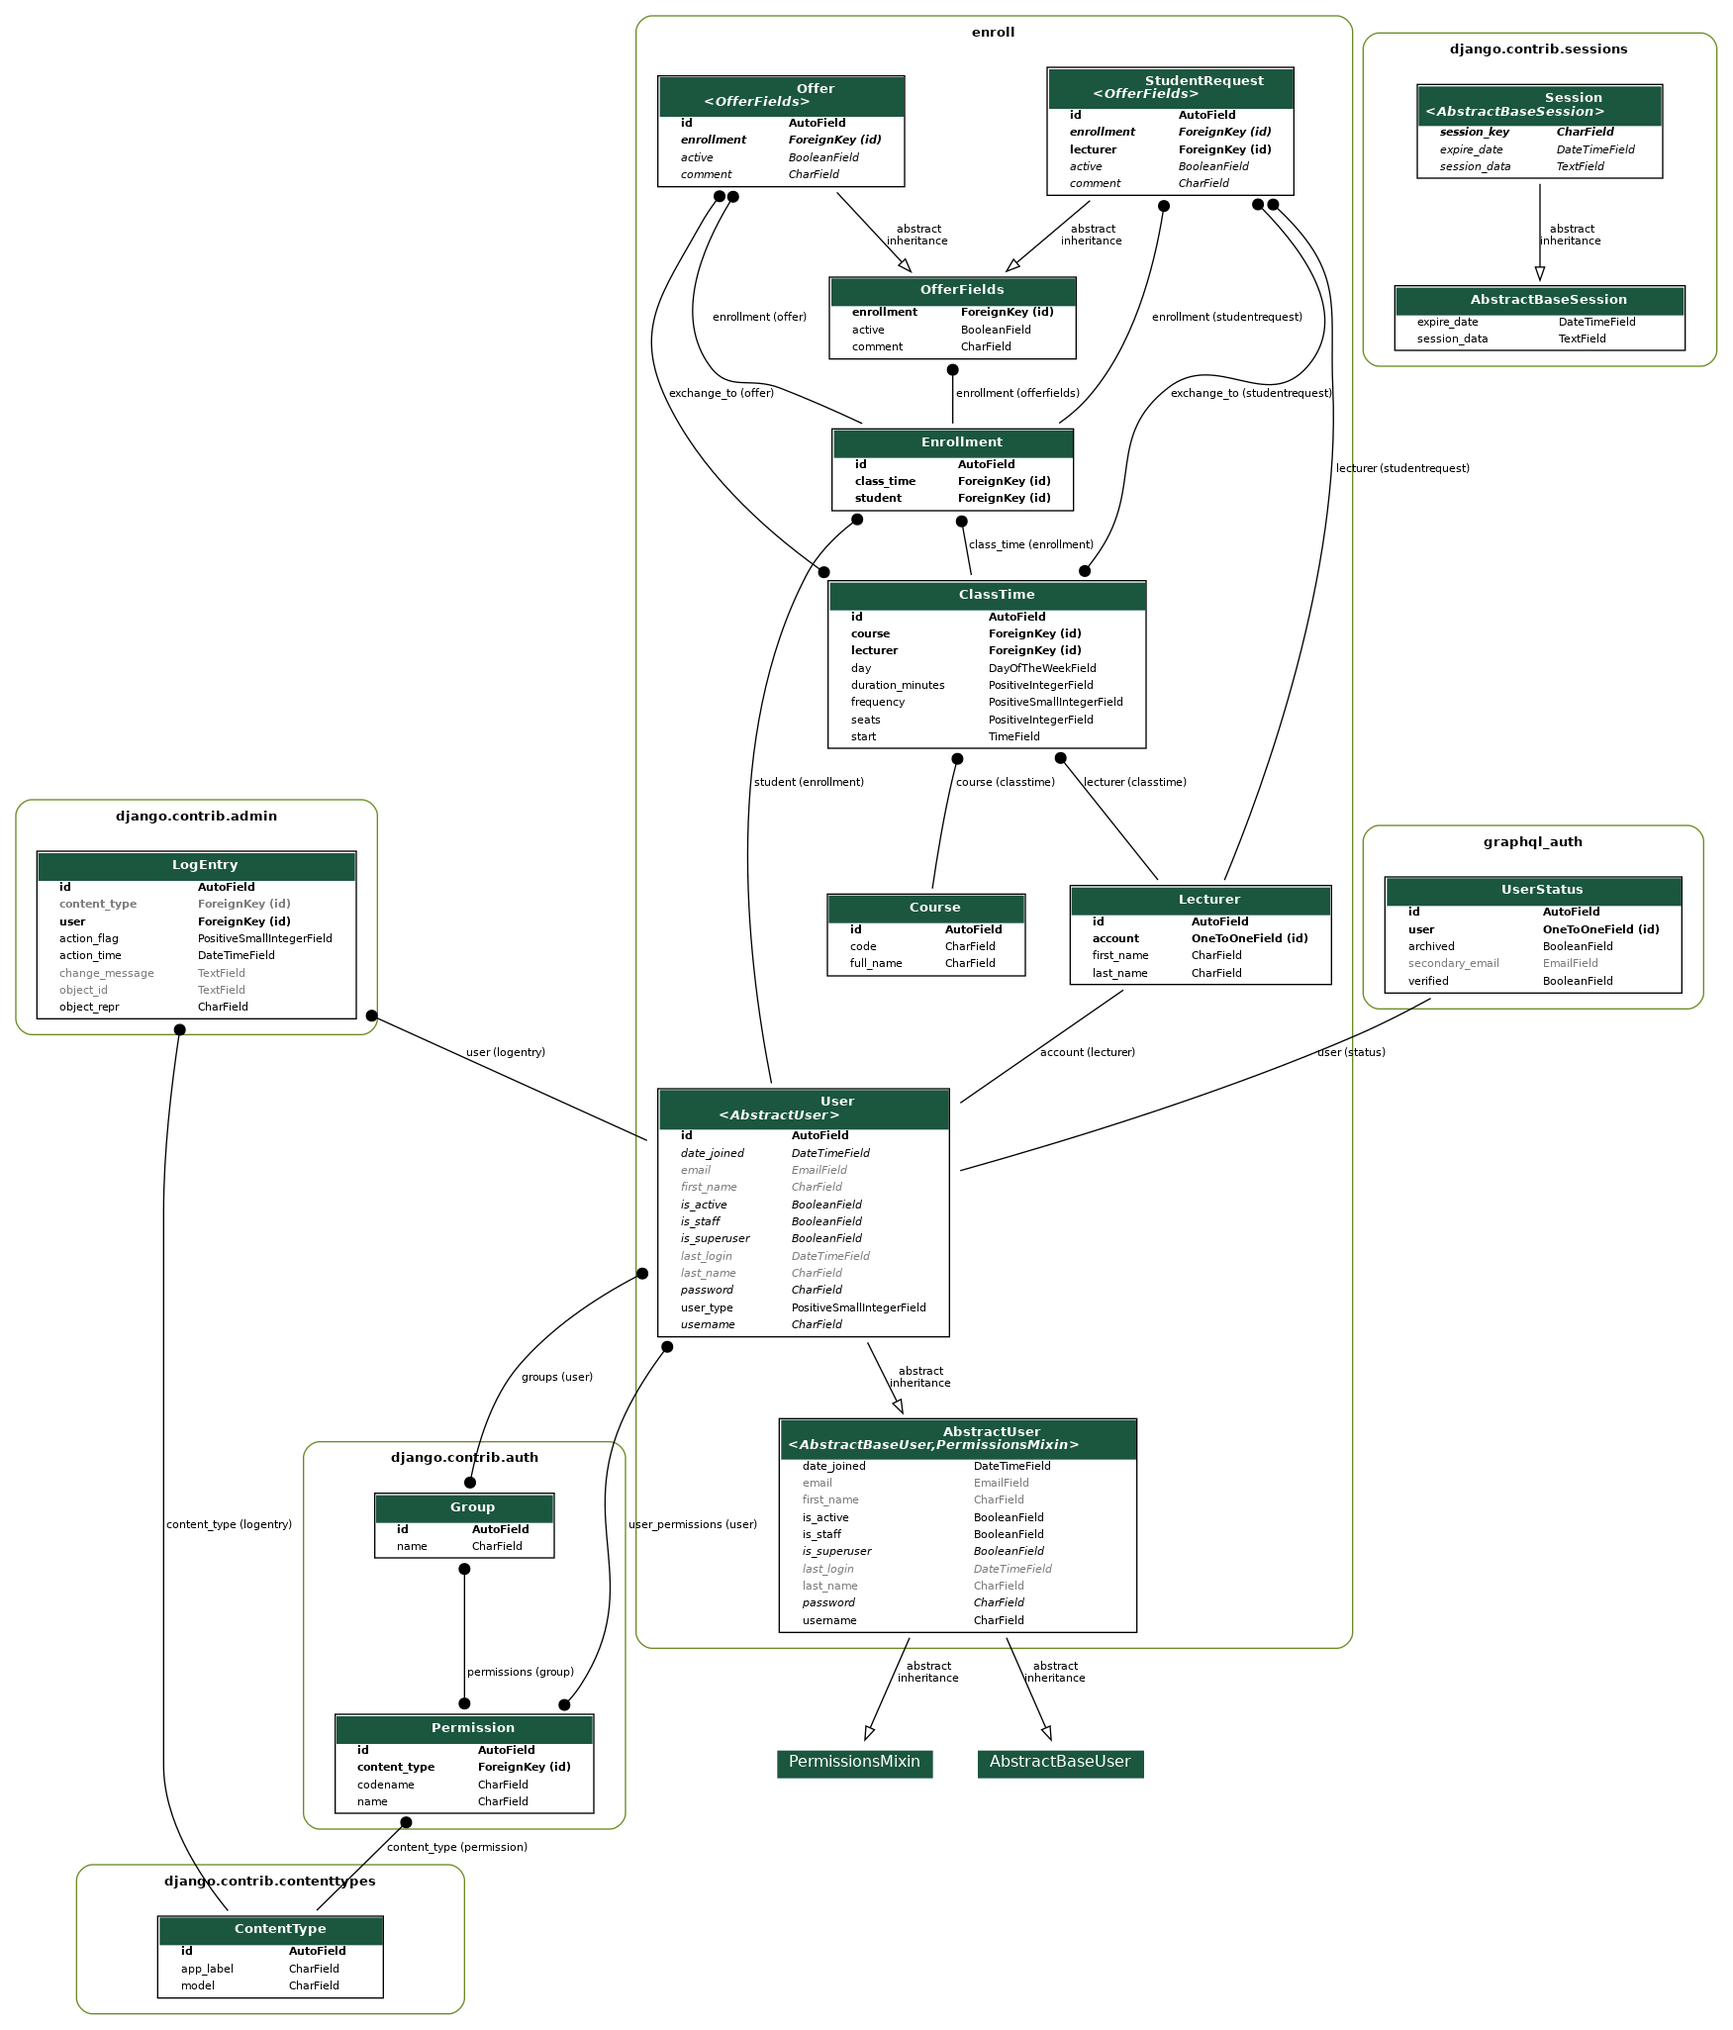
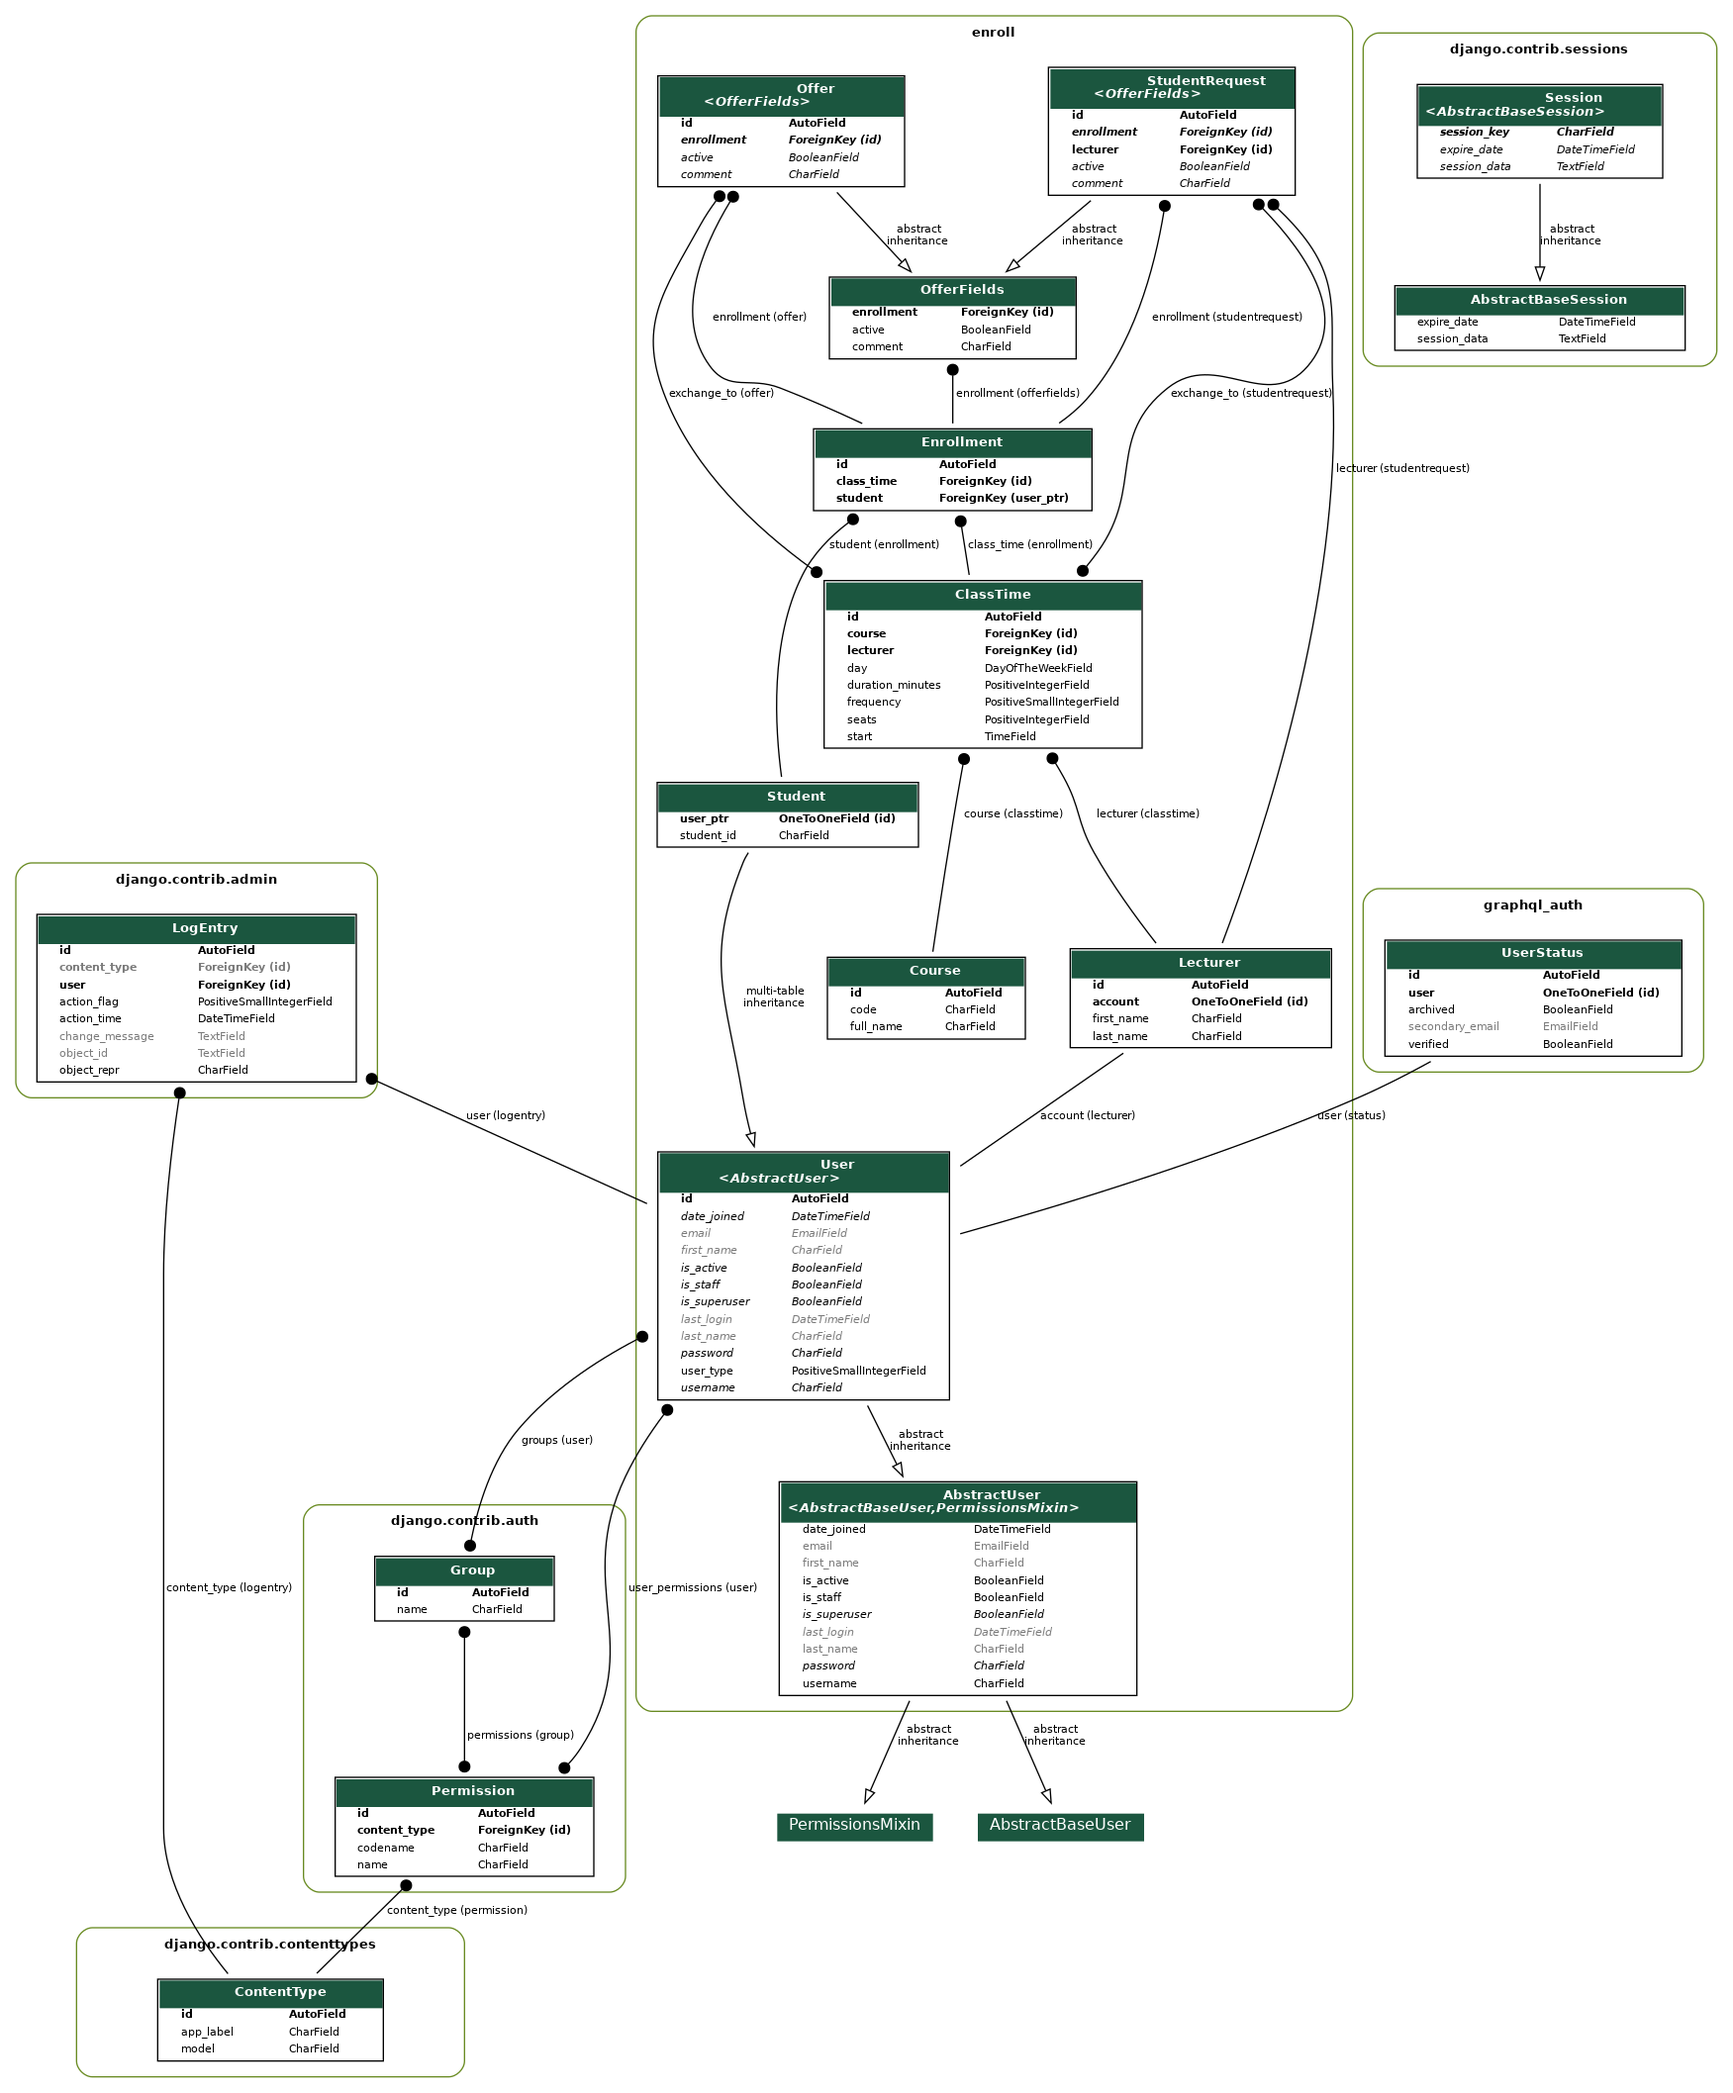
Add Student model

diff --git a/enroll/tests.py b/enroll/tests.py
@@ -1,8 +1,9 @@
 import datetime as dt
 from django.test import TestCase
 from django.core.exceptions import ValidationError
+from django.db.utils import DataError
 
-from enroll.models import User, Lecturer, Enrollment, ClassTime
+from enroll.models import User, Student, Lecturer, Enrollment, ClassTime
 from enroll.types import UserType
 from enroll.utils import time_plus_minutes
 
@@ -24,21 +25,88 @@ class UtilsTestCase(TestCase):
 class UserTestCase(TestCase):
     def setUp(self):
         self.new_user = User.objects.create(
-            user_type=UserType.get_by_name('new_user'),
-            username='testuser1', password='12345',
+            user_type=UserType.get_by_name("new_user"),
+            username="testuser1",
+            password="12345",
         )
-        self.student = User.objects.create(
-            user_type=UserType.get_by_name('student'),
-            username='testuser2', password='12345',
+        self.student = Student.objects.create(
+            user_type=UserType.get_by_name("student"),
+            username="testuser2",
+            password="12345",
         )
         self.teacher = User.objects.create(
-            user_type=UserType.get_by_name('teacher'),
-            username='testuser3', password='12345',
+            user_type=UserType.get_by_name("teacher"),
+            username="testuser3",
+            password="12345",
         )
         self.moderator = User.objects.create(
-            user_type=UserType.get_by_name('moderator'),
-            username='testuser4', password='12345',
+            user_type=UserType.get_by_name("moderator"),
+            username="testuser4",
+            password="12345",
         )
+
+
+class StudentTestCase(UserTestCase):
+    def setUp(self):
+        super().setUp()
+
+    def test_student_id_validation(self):
+        """
+        Assert that ValidationError is raised when student has incorrect student id number set.
+        """
+        Student.objects.create(
+            user_type=UserType.get_by_name("student"),
+            username="testuser5",
+            password="12345",
+            student_id="123456",
+        ).clean()
+        with self.assertRaises(ValidationError):
+            Student.objects.create(
+                user_type=UserType.get_by_name("student"),
+                username="testuser7",
+                password="12345",
+                student_id="1234",
+            ).clean()
+        with self.assertRaises(ValidationError):
+            Student.objects.create(
+                user_type=UserType.get_by_name("student"),
+                username="testuser8",
+                password="12345",
+                student_id="123a56",
+            ).clean()
+        with self.assertRaises(DataError):
+            Student.objects.create(
+                user_type=UserType.get_by_name("student"),
+                username="testuser6",
+                password="12345",
+                student_id="12345678",
+            ).clean()
+
+    def test_student_user_type_validation(self):
+        """
+        Assert that ValidationError is raised when Student account
+        has user_type different than student.
+        """
+        Student.objects.create(
+            user_type=UserType.get_by_name("student"),
+            username="testuser5",
+            password="12345",
+            student_id="123456",
+        ).clean()
+        with self.assertRaises(ValidationError):
+            Student.objects.create(
+                user_type=UserType.get_by_name("teacher"),
+                username="testuser6",
+                password="12345",
+                student_id="123456",
+            ).clean()
+        with self.assertRaises(ValidationError):
+            Student.objects.create(
+                user_type=UserType.get_by_name("moderator"),
+                username="testuser7",
+                password="12345",
+                student_id="123456",
+            ).clean()
 
 
 class LecturerTestCase(UserTestCase):
@@ -61,22 +129,26 @@ class EnrollmentTestCase(UserTestCase):
     def setUp(self):
         super().setUp()
         self.time = ClassTime.objects.create(
-            day='1',
+            day="1",
             frequency=ClassTime.FrequencyType.EVERY_WEEK,
             start=dt.time(),
             duration_minutes=0,
             seats=0,
         )
 
-    def test_lecturer_account_validator(self):
+    def test_student_typing(self):
         """
         Assert that ValidationError is raised when Enrollment is linked to user other than student.
         """
         Enrollment.objects.create(student=self.student, class_time=self.time).clean()
-        with self.assertRaises(ValidationError):
-            Enrollment.objects.create(student=self.new_user, class_time=self.time).clean()
-        with self.assertRaises(ValidationError):
-            Enrollment.objects.create(student=self.teacher, class_time=self.time).clean()
+        with self.assertRaises(ValueError):
+            Enrollment.objects.create(
+                student=self.new_user, class_time=self.time
+            ).clean()
+        with self.assertRaises(ValueError):
+            Enrollment.objects.create(
+                student=self.teacher, class_time=self.time
+            ).clean()
 
 
 class ClassTimeCase(TestCase):
@@ -88,7 +160,7 @@ class ClassTimeCase(TestCase):
         time = dt.time(hour=23, minute=59)
         duration = 10
         ct = ClassTime.objects.create(
-            day='1',
+            day="1",
             frequency=ClassTime.FrequencyType.EVERY_WEEK,
             start=time,
             duration_minutes=duration,

diff --git a/enroll/models.py b/enroll/models.py
@@ -3,17 +3,27 @@ from django.contrib.auth.models import AbstractUser
 
 from enrollXchange.settings import ModelConstants
 from enroll.fields import DayOfTheWeekField
-from enroll.validators import validate_by_user_type
+from enroll.validators import validate_by_user_type, validate_student_id
 from enroll.types import UserType
 from enroll.utils import time_plus_minutes
 
 
 class User(AbstractUser):
-    user_type = models.PositiveSmallIntegerField(choices=UserType.get_choices(),
-                                                 default=UserType.get_by_name('new_user'))
+    user_type = models.PositiveSmallIntegerField(
+        choices=UserType.get_choices(), default=UserType.get_by_name("new_user")
+    )
 
     def __str__(self):
-        return super().__str__() + ' (' + (UserType.get_by_key(self.user_type)) + ')'
+        return super().__str__() + " (" + (UserType.get_by_key(self.user_type)) + ")"
+
+
+class Student(User):
+    student_id = models.CharField(max_length=6, null=True)
+    # Should not be nullable in production environment
+
+    def clean(self):
+        validate_by_user_type("student")(self)
+        validate_student_id(self)
 
 
 class Lecturer(models.Model):
@@ -25,11 +35,11 @@ class Lecturer(models.Model):
     )
 
     def clean(self):
-        validate_by_user_type('teacher')(self.account)
+        validate_by_user_type("teacher")(self.account)
 
     @property
     def full_name(self):
-        return f'{self.first_name} {self.last_name}'
+        return f"{self.first_name} {self.last_name}"
 
     def __str__(self):
         return self.full_name
@@ -45,10 +55,10 @@ class Course(models.Model):
 
 class ClassTime(models.Model):
     class FrequencyType(models.IntegerChoices):
-        EVERY_WEEK = 1, 'every week'
-        A_WEEK = 2, 'week a'
-        B_WEEK = 3, 'week b'
-        OTHER = 4, 'other'
+        EVERY_WEEK = 1, "every week"
+        A_WEEK = 2, "week a"
+        B_WEEK = 3, "week b"
+        OTHER = 4, "other"
 
     day = DayOfTheWeekField(null=False)
     frequency = models.PositiveSmallIntegerField(choices=FrequencyType.choices)
@@ -63,26 +73,31 @@ class ClassTime(models.Model):
         return time_plus_minutes(self.start, self.duration_minutes)
 
     def __str__(self):
-        return self.course.__str__() + ' | ' + self.day + \
-               ' ' + self.start.strftime('%H:%M')
+        return (
+            self.course.__str__()
+            + " | "
+            + self.day
+            + " "
+            + self.start.strftime("%H:%M")
+        )
 
 
 class Enrollment(models.Model):
     class_time = models.ForeignKey(ClassTime, null=False, on_delete=models.CASCADE)
     student = models.ForeignKey(
-        User,
+        Student,
         null=False,
         on_delete=models.CASCADE,
     )
 
-    def clean(self):
-        validate_by_user_type('student')(self.student)
-
     def __str__(self):
-        return self.student.__str__() + ' - ' + self.class_time.__str__()
+        return self.student.__str__() + " - " + self.class_time.__str__()
 
     class Meta:
-        unique_together = ('student', 'class_time',)
+        unique_together = (
+            "student",
+            "class_time",
+        )
 
 
 class OfferFields(models.Model):

diff --git a/enroll/migrations/0003_auto_20210515_1106.py b/enroll/migrations/0003_auto_20210515_1106.py
@@ -1,0 +1,43 @@
+# Generated by Django 3.2 on 2021-05-15 11:06
+
+import django.contrib.auth.models
+from django.db import migrations, models
+import django.db.models.deletion
+
+
+class Migration(migrations.Migration):
+
+    dependencies = [
+        ('enroll', '0002_auto_20210404_1400'),
+    ]
+
+    operations = [
+        migrations.CreateModel(
+            name='Student',
+            fields=[
+                ('user_ptr', models.OneToOneField(auto_created=True, on_delete=django.db.models.deletion.CASCADE, parent_link=True, primary_key=True, serialize=False, to='enroll.user')),
+                ('student_id', models.CharField(max_length=6, null=True)),
+            ],
+            options={
+                'verbose_name': 'user',
+                'verbose_name_plural': 'users',
+                'abstract': False,
+            },
+            bases=('enroll.user',),
+            managers=[
+                ('objects', django.contrib.auth.models.UserManager()),
+            ],
+        ),
+        migrations.RunSQL('''
+            INSERT INTO public.enroll_student(user_ptr_id, student_id)
+                SELECT id, null
+                FROM public.enroll_user
+                WHERE user_type = 2 -- student
+            ;
+        '''),
+        migrations.AlterField(
+            model_name='enrollment',
+            name='student',
+            field=models.ForeignKey(on_delete=django.db.models.deletion.CASCADE, to='enroll.student'),
+        ),
+    ]

diff --git a/enroll/validators.py b/enroll/validators.py
@@ -3,10 +3,18 @@ from enroll.types import UserType
 
 
 def validate_by_user_type(user_type, user_label=None):
-    user_label = 'Account' if not user_label else user_label + ' account'
+    user_label = "Account" if not user_label else user_label + " account"
 
     def __validate(user):
         if user.user_type != UserType.get_by_name(user_type):
             raise ValidationError(f"{user_label} type must be '{user_type}'!")
 
     return __validate
+
+
+def validate_student_id(student):
+    if not student.student_id.isdigit():
+        raise ValidationError("Student id has to be a number.")
+
+    if len(student.student_id) != 6:
+        raise ValidationError("Student id number has to be 6 digits long.")
